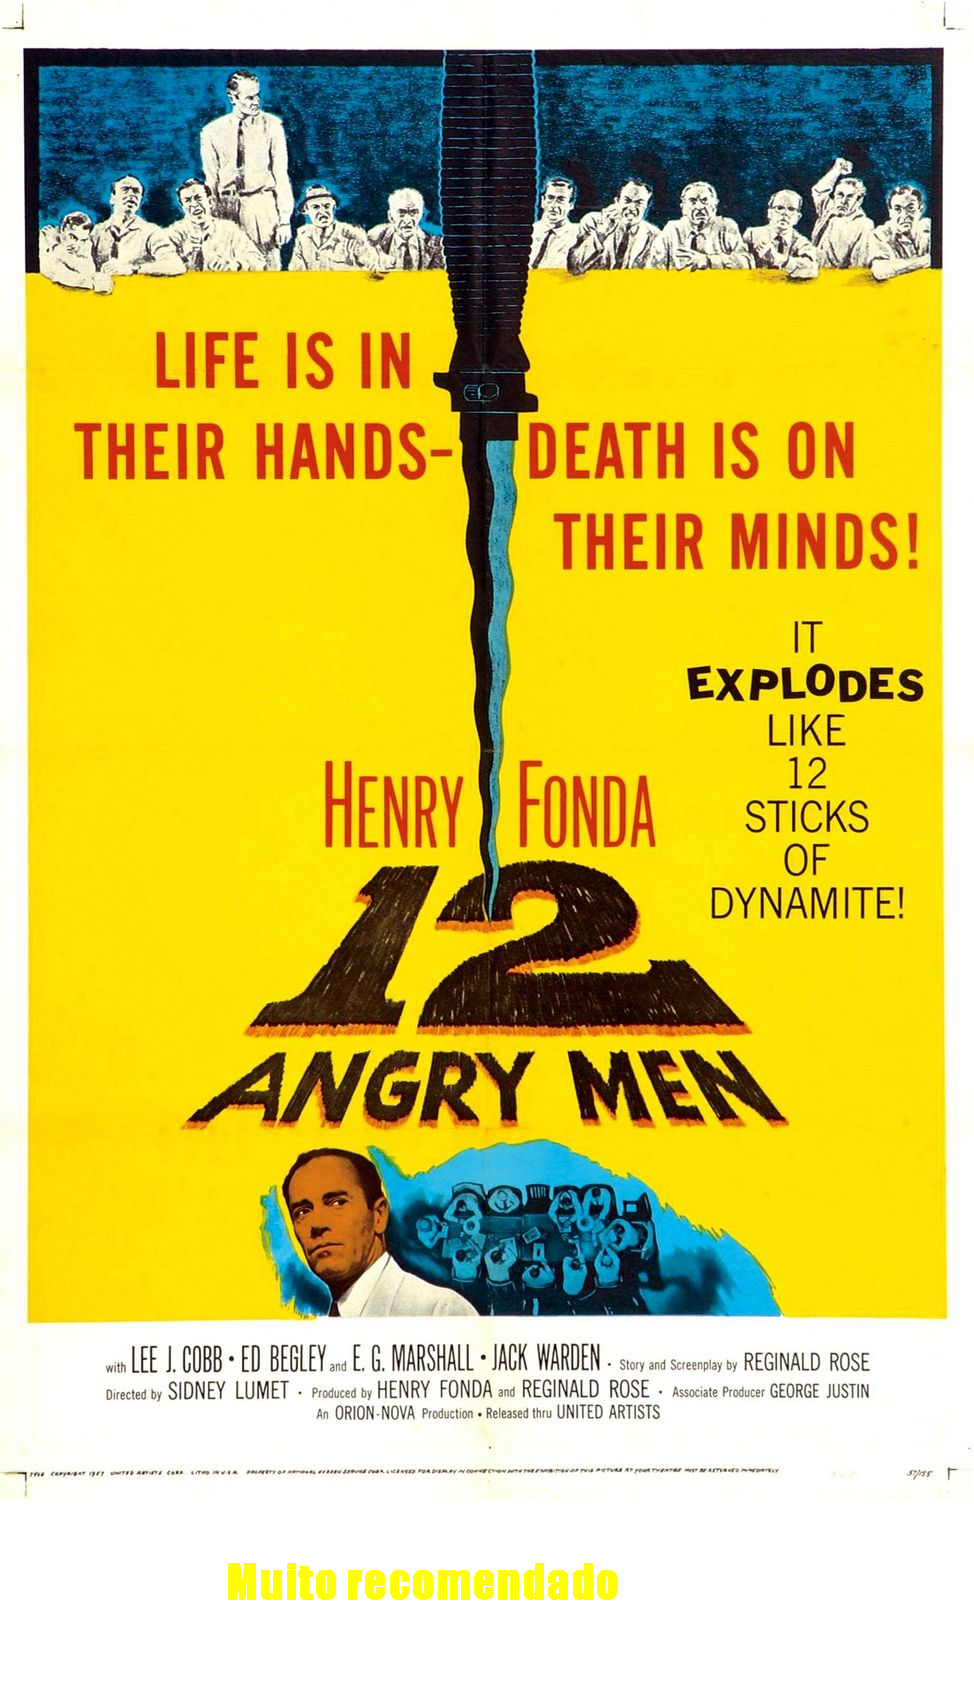
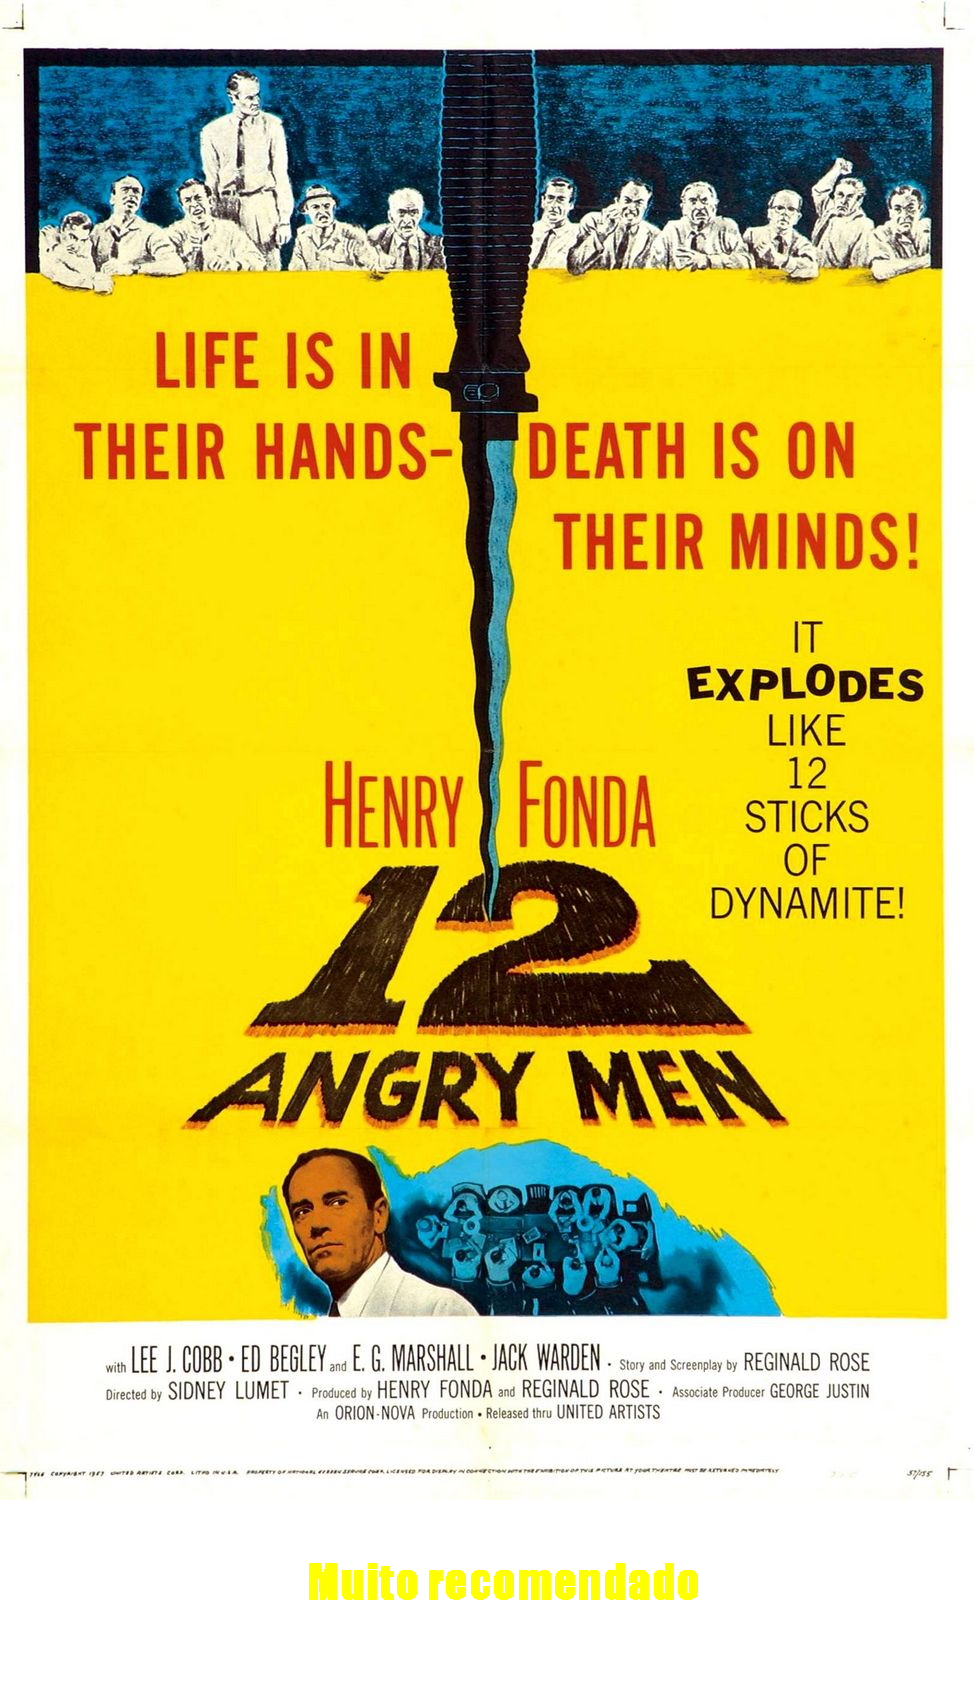
Envio 04

Changed region(s): [[0.2156, 0.9041, 0.7084, 0.9665]]

diff --git a/src/FabricaDeFigurinhas.java b/src/FabricaDeFigurinhas.java
@@ -1,6 +1,11 @@
+import java.awt.BasicStroke;
 import java.awt.Color;
 import java.awt.Font;
 import java.awt.Graphics2D;
+import java.awt.Shape;
+import java.awt.font.FontRenderContext;
+import java.awt.font.TextLayout;
+import java.awt.geom.AffineTransform;
 import java.awt.image.BufferedImage;
 import java.io.File;
 import java.io.InputStream;
@@ -8,11 +13,11 @@ import javax.imageio.ImageIO;
 
 
 public class FabricaDeFigurinhas {
-    public void cria(InputStream inputStream, String nomeArquivo, String ranking) throws Exception {
+    public void cria(InputStream inputStream, String nomeArquivo, String comentario) throws Exception {
         //leitura da imagem
 
        // BufferedImage imagemOriginal = ImageIO.read(new File("consumindoAPI/entrada/filme.jpg"));
-       BufferedImage imagemOriginal = ImageIO.read(inputStream);
+        BufferedImage imagemOriginal = ImageIO.read(inputStream);
 
 
         //criar imagem em memoria com transparencia e tamanho diferente
@@ -36,14 +41,33 @@ public class FabricaDeFigurinhas {
         graphics.setColor(Color.YELLOW);
         graphics.setFont(fonte);
 
-        //colocar a frase do sticker
-        int textoLegenda = ranking.length();
-
         
-        graphics.drawString(ranking, (largura/4) -textoLegenda, novaAltura-100);
-
-          
+        //variaveis de calculo para localização da frase
         
+        int textoLegenda = comentario.length();
+        int posicaoTextoX = largura/3-textoLegenda;
+        int posicaoTextoY = novaAltura - 100;
+
+        //contornando o texto
+        FontRenderContext fontRenderContext = graphics.getFontRenderContext();
+        var textLayout = new TextLayout(comentario, fonte, fontRenderContext);
+
+        Shape outline = textLayout.getOutline(null);
+        AffineTransform transform = graphics.getTransform();
+        transform.translate(posicaoTextoX, posicaoTextoY);
+        graphics.setTransform(transform);
+
+
+        var outlineStroke =  new BasicStroke(largura * 0.004f);
+        graphics.setStroke(outlineStroke);
+        graphics.setColor(Color.BLACK);
+        graphics.draw(outline);
+        graphics.setClip(outline);
+
+
+        //posição do texto
+        
+        graphics.drawString(comentario, posicaoTextoX, posicaoTextoY);
 
         //escrever imagem nova em arquivo
 
